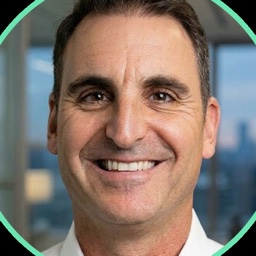
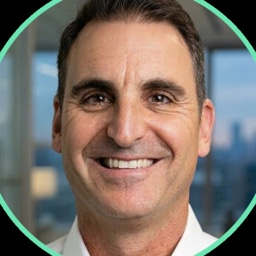
Link papers to DOIs, fix citations, re-crop team photos
- Point each Read paper link to its DOI and correct titles, descriptions
  and years (Ross et al. 2026, Nguyen et al. 2023)
- Re-crop team photos so heads are not cut off and the green ring from
  the deck is removed; use the uncropped originals for Gadi and Matan

diff --git a/index.html b/index.html
@@ -675,31 +675,30 @@
         <h2 class="h2">Peer-reviewed research supports the modality<span class="dot">.</span></h2>
         <p class="lead">Independent studies establish feasibility and associations for smartphone typing as a window into brain function. Our focus is the next frontier: reliable change within each individual.</p>
 
-        <!-- TODO: replace each href="#" with the paper's DOI / publisher link and confirm journal + year. -->
         <div class="papers">
           <article class="card paper">
             <div class="paper-meta"><span class="area">Multiple sclerosis</span><span class="src">JMIR · 2022</span></div>
-            <h3>Smartphone keystroke dynamics to passively monitor upper limb and cognitive function in MS</h3>
-            <p>102 people with MS followed for one year: everyday typing was associated with upper-limb function and processing speed.</p>
-            <div class="paper-foot">Lam et al. · <a class="text-link" href="#" target="_blank" rel="noopener">Read paper <svg aria-hidden="true"><use href="#i-ext"/></svg></a></div>
+            <h3>The use of smartphone keystroke dynamics to passively monitor upper limb and cognitive function in multiple sclerosis</h3>
+            <p>102 people with MS followed for one year: everyday typing on their own phones tracked upper-limb function and processing speed (9HPT, SDMT).</p>
+            <div class="paper-foot">Lam et al. · <a class="text-link" href="https://doi.org/10.2196/37614" target="_blank" rel="noopener">Read paper <svg aria-hidden="true"><use href="#i-ext"/></svg></a></div>
           </article>
           <article class="card paper">
             <div class="paper-meta"><span class="area">Parkinson's</span><span class="src">Movement Disorders · 2019</span></div>
             <h3>Remote monitoring of treatment response in Parkinson's disease: the habit of typing on a computer</h3>
-            <p>Natural typing was investigated as a remote marker of levodopa treatment response.</p>
-            <div class="paper-foot">Matarazzo et al. · <a class="text-link" href="#" target="_blank" rel="noopener">Read paper <svg aria-hidden="true"><use href="#i-ext"/></svg></a></div>
+            <p>Unsupervised at-home typing was explored as a remote marker of response to dopaminergic treatment in early Parkinson's disease.</p>
+            <div class="paper-foot">Matarazzo et al. · <a class="text-link" href="https://doi.org/10.1002/mds.27772" target="_blank" rel="noopener">Read paper <svg aria-hidden="true"><use href="#i-ext"/></svg></a></div>
           </article>
           <article class="card paper">
-            <div class="paper-meta"><span class="area">Cognition</span><span class="src">Cognitive Computation · 2025</span></div>
-            <h3>Keying into cognition: smartphone typing for processing speed and executive function</h3>
-            <p>Passive smartphone typing features were associated with processing speed and executive function.</p>
-            <div class="paper-foot">Ross et al. · <a class="text-link" href="#" target="_blank" rel="noopener">Read paper <svg aria-hidden="true"><use href="#i-ext"/></svg></a></div>
+            <div class="paper-meta"><span class="area">Cognition</span><span class="src">Cognitive Computation · 2026</span></div>
+            <h3>Keying into cognition: smartphone typing behaviors for passive assessment of processing speed and executive function</h3>
+            <p>In people with mood disorders, passive smartphone typing behavior alone was used to estimate processing speed and executive function.</p>
+            <div class="paper-foot">Ross et al. · <a class="text-link" href="https://doi.org/10.1007/s12559-026-10549-y" target="_blank" rel="noopener">Read paper <svg aria-hidden="true"><use href="#i-ext"/></svg></a></div>
           </article>
           <article class="card paper">
-            <div class="paper-meta"><span class="area">Review</span><span class="src">Brain Sciences · 2022</span></div>
-            <h3>Smartphone keystroke dynamics as a digital biomarker for neurocognitive functioning</h3>
+            <div class="paper-meta"><span class="area">Review</span><span class="src">Brain Sciences · 2023</span></div>
+            <h3>A review on smartphone keystroke dynamics as a digital biomarker for understanding neurocognitive functioning</h3>
             <p>A review of keystroke dynamics for neurocognitive research, including methodological and ethical considerations.</p>
-            <div class="paper-foot">Nguyen et al. · <a class="text-link" href="#" target="_blank" rel="noopener">Read paper <svg aria-hidden="true"><use href="#i-ext"/></svg></a></div>
+            <div class="paper-foot">Nguyen et al. · <a class="text-link" href="https://doi.org/10.3390/brainsci13060959" target="_blank" rel="noopener">Read paper <svg aria-hidden="true"><use href="#i-ext"/></svg></a></div>
           </article>
         </div>
         <p class="disclaimer">Independent literature cited for context. Phenometric is research-stage technology and is not intended to diagnose or treat any condition.</p>
